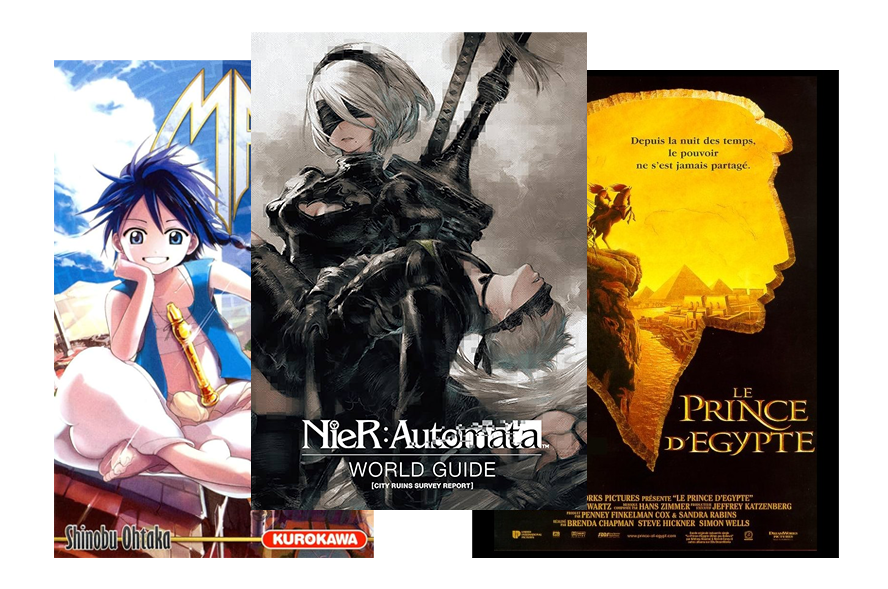
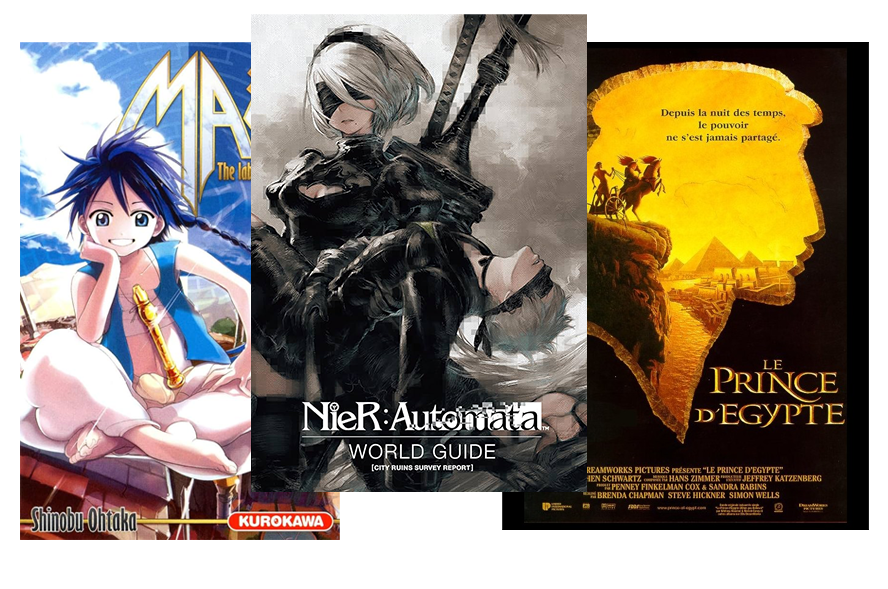
ma page + le fond changer legerement

diff --git a/src/AdamMaloul.html b/src/AdamMaloul.html
@@ -37,7 +37,7 @@
             <p id="vide">element</p>
         </nav>
         <header>
-            <img class="mainimage" src="/doc/pfp/Sibadprofile.jpg" alt="mainimage" />
+            <img class="mainimage" src="/doc/pfp/Convertisseur GIF anim.gif" alt="mainimage" />
             <p class="description">
                 Lorem, ipsum dolor sit amet consectetur adipisicing elit.
                 Hic, ducimus? Dicta quaerat veniam explicabo doloribus saepe
@@ -58,37 +58,35 @@
                         <h4>Manga</h4>
                         <ul>
                             <li>Magi</li>
-                            <li>donjon meshi</li>
+                            <li>eyeshild 21</li>
                             <li>chainsaw man</li>
                         </ul>
                         <h4>jeux video</h4>
                         <ul>
                             <li>nier</li>
-                            <li>tales of vesperia</li>
-                            <li></li>
+                            <li>asura wrath</li>
+                            <li>yakuza</li>
                         </ul>
-                        <h3>Film</h3>
+                        <h4>Film</h3>
                         <ul>
-                            <li></li>
-                            <li></li>
-                            <li></li>
+                            <li>prince of egypte</li>
+                            <li>gardien de la galaxie 3</li>
+                            <li>princesse manonononke</li>
                         </ul>
-                    </div>
-                    <div class="element">
-                        <div class="slider_img2"></div>
-                        <p>
-                            La passion pour les jeux vidéo est une flamme ardente qui consume l'esprit, nourrissant
-                            l'imagination et alimentant l'excitation à chaque session de jeu. C'est une immersion totale
-                            dans des mondes fantastiques où l'on peut être un héros intrépide, un stratège impitoyable
-                            ou un aventurier audacieux.
-                        </p>
                     </div>
                     <div class="element">
                         <div class="slider_img3"></div>
-                        <h1>Lorem, ipsum dolor sit amet consectetur adipisicing elit. Velit voluptatem dolores nobis
-                            quisquam repellendus pariatur eos error non nisi temporibus voluptatum rem ad praesentium
-                            itaque alias, deserunt ut animi dolor?</h1>
+                        <h2>Jrpg A.K.A jeu de rôle japonais</h2>
+                        <p>les JRPG,une plongée envoûtante dans des histoires épiques et des mondes féeriques, où les choix du joueur façonnent le destin des personnages. C'est une aventure immersive où l'on peut découvrir des paysages enchanteurs, affronter des défis épiques et tisser des liens avec des compagnons inoubliables.</p>
                     </div>
+                    <div class="element">
+                        <div class="slider_img2"></div>
+                        <h2>Le dessin</h2>
+                        <p>
+                            Pour moi, dessiner, c'est vraiment passionnant. J'adore matérialiser sur papier toutes mes idées de personnages et d'histoires. Inspiré par des artistes comme "SkullsXStars", "Miyamaowari", "Yapico", "Yuto Sano" et "Zero808works", chaque trait est une manière pour moi de m'exprimer, de créer un univers qui me ressemble, avec mes propres codes et mes propres histoires.
+                        </p>
+                    </div>
+                   
                     <div class="element">
                         <div class="slider_img4"></div>
                         <h2>Titre 1</h2>

diff --git a/src/adamMaaloul.css b/src/adamMaaloul.css
@@ -14,7 +14,7 @@
             rgba(255, 255, 255, 0),
             /* rgba(255, 255, 255, 0), */ #212121
         ),
-        url("/doc/bannAM.png");
+        url("/doc/p_mononoke.jpeg");
 }
 .slider_img2 {
     background-image: linear-gradient(
@@ -22,7 +22,7 @@
             rgba(255, 255, 255, 0),
             #212121
         ),
-        url("/doc/loading.gif");
+        url("/doc/Zero808worksArt.jpeg");
 }
 
 .slider_img3 {
@@ -31,5 +31,5 @@
             rgba(255, 255, 255, 0),
             #212121
         ),
-        url("/doc/loading.gif");
+        url("/doc/NieR_RepliCant.jpeg");
 }

diff --git a/src/loading.js b/src/loading.js
@@ -1,4 +1,4 @@
-var loader = document.querySelector(".loading");
+const loader = document.querySelector(".loading");
 // window.addEventListener("load", function () {
 //   loader.style.display = "none";
 // });
@@ -9,3 +9,7 @@ setTimeout(() => {
     }, 300);
     loader.style.opacity = "0";
 }, 1500);
+
+const videoFond = document.getElementById("myVideo");
+
+videoFond.playbackRate = 0.2; //vitesse de lecture du fond

diff --git a/src/descpage.css b/src/descpage.css
@@ -16,7 +16,7 @@ body {
 }
 
 .active {
-    background-color: rgb(25, 25, 25, .5);
+    background-color: rgb(25, 25, 25, 0.5);
     z-index: 5;
 }
 
